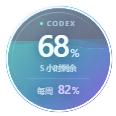
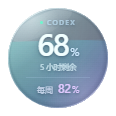
Refine the floating orb glass and remove exterior quota rings

diff --git a/renderer.js b/renderer.js
@@ -45,24 +45,49 @@ function draw(time){
   requestAnimationFrame(draw);
   if(document.body.dataset.mode!=='orb'||document.hidden)return;
   if(time-previous<1000/30)return;const dt=Math.min((time-previous)/1000,.06);previous=time;
-  const animate=current?.config.animation!==false;phase+=animate?dt*.8:0;level+=animate?(target-level)*.045:target-level;
-  const ratio=2,c=180,r=148;ctx.clearRect(0,0,360,360);ctx.save();ctx.beginPath();ctx.arc(c,c,r,0,Math.PI*2);ctx.clip();
+  const animate=current?.config.animation!==false;phase+=animate?dt*.55:0;level+=animate?(target-level)*Math.min(1,dt*3.5):target-level;
+  // Match the actual Windows pixel scale: no downsampled, subpixel progress orbit.
+  const size=104,dpr=window.devicePixelRatio||1,pixels=Math.round(size*dpr),c=size/2,r=50;
+  if(canvas.width!==pixels||canvas.height!==pixels){canvas.width=pixels;canvas.height=pixels;}
+  ctx.setTransform(pixels/size,0,0,pixels/size,0,0);ctx.clearRect(0,0,size,size);
+  ctx.save();ctx.beginPath();ctx.arc(c,c,r,0,Math.PI*2);ctx.clip();
   const alpha=(current?.config.opacity??78)/100;
-  let bg=ctx.createLinearGradient(30,20,310,330);bg.addColorStop(0,`rgba(26,55,78,${alpha*.77})`);bg.addColorStop(1,`rgba(25,20,56,${alpha*.84})`);ctx.fillStyle=bg;ctx.fillRect(0,0,360,360);
+  const bg=ctx.createLinearGradient(14,5,89,101);
+  bg.addColorStop(0,`rgba(80,125,145,${alpha*.7})`);
+  bg.addColorStop(.38,`rgba(29,55,73,${alpha*.82})`);
+  bg.addColorStop(1,`rgba(40,36,73,${alpha*.88})`);
+  ctx.fillStyle=bg;ctx.fillRect(0,0,size,size);
   const y=c+r-level*r*2;
-  for(let layer=0;layer<3;layer++){
-    ctx.beginPath();ctx.moveTo(0,360);
-    for(let x=0;x<=360;x+=3){const wave=Math.sin(x/64+phase*(layer===1?-1:1)+layer*1.8)*(7+layer*2)+Math.sin(x/39+phase*.65)*3;ctx.lineTo(x,y+wave+layer*5);}
-    ctx.lineTo(360,360);ctx.closePath();const g=ctx.createLinearGradient(25,y-30,320,350);g.addColorStop(0,`rgba(80,244,213,${alpha*(layer===2?.45:.17)})`);g.addColorStop(.48,`rgba(65,180,230,${alpha*.3})`);g.addColorStop(1,`rgba(157,91,250,${alpha*.52})`);ctx.fillStyle=g;ctx.fill();
-    if(layer===2){ctx.strokeStyle='#a9fff23c';ctx.lineWidth=1;ctx.stroke();}
+  for(let layer=0;level>.002&&layer<2;layer++){
+    ctx.beginPath();ctx.moveTo(0,size);
+    for(let x=0;x<=size;x++){
+      const wave=level>.998?0:Math.sin(x/23+phase*(layer?-1:1)+layer*1.9)*(1+layer*.4)+Math.sin(x/39+phase*.65)*.45;
+      ctx.lineTo(x,y+wave+layer*.8);
+    }
+    ctx.lineTo(size,size);ctx.closePath();
+    const water=ctx.createLinearGradient(7,Math.max(0,y-8),99,100);
+    water.addColorStop(0,`rgba(112,238,223,${alpha*(layer?.3:.15)})`);
+    water.addColorStop(.5,`rgba(82,184,218,${alpha*(layer?.29:.17)})`);
+    water.addColorStop(1,`rgba(156,132,239,${alpha*(layer?.39:.19)})`);
+    ctx.fillStyle=water;ctx.fill();
   }
-  const shine=ctx.createRadialGradient(116,66,3,130,85,220);shine.addColorStop(0,'#b9f9ff18');shine.addColorStop(1,'#70a9ff00');ctx.fillStyle=shine;ctx.fillRect(0,0,360,360);
-  if(animate)for(let i=0;i<8;i++){const x=80+(i*37)%210,by=310-((phase*13+i*41)%240);if(by>y+15){ctx.beginPath();ctx.arc(x,by,1.2+(i%3)*.6,0,7);ctx.fillStyle='#c7ffff38';ctx.fill();}}
+  // Broad reflections and an inset shadow give the material depth without particles.
+  const shade=ctx.createRadialGradient(47,43,30,c,c,r);
+  shade.addColorStop(0,'#14284200');shade.addColorStop(.78,'#14284200');shade.addColorStop(1,'#10263d35');
+  ctx.fillStyle=shade;ctx.fillRect(0,0,size,size);
+  const light=ctx.createRadialGradient(26,12,0,33,22,70);
+  light.addColorStop(0,'#edffff75');light.addColorStop(.35,'#e5ffff23');light.addColorStop(1,'#ecffff00');
+  ctx.fillStyle=light;ctx.fillRect(0,0,size,size);
+  const gloss=ctx.createLinearGradient(19,6,42,42);
+  gloss.addColorStop(0,'#ffffff38');gloss.addColorStop(1,'#ffffff00');
+  ctx.beginPath();ctx.ellipse(36,19,33,10,-.45,0,Math.PI*2);ctx.fillStyle=gloss;ctx.fill();
+  const refract=ctx.createRadialGradient(76,90,0,72,86,35);
+  refract.addColorStop(0,'#e0deff38');refract.addColorStop(1,'#d1dbff00');
+  ctx.fillStyle=refract;ctx.fillRect(0,0,size,size);
   ctx.restore();
-  const ring=ctx.createLinearGradient(30,30,320,320);ring.addColorStop(0,'#91ffe6');ring.addColorStop(.5,'#70bcf4');ring.addColorStop(1,'#b18aff');
-  ctx.beginPath();ctx.arc(c,c,r+6,-Math.PI/2,Math.PI*1.5);ctx.strokeStyle='#a8c8ff10';ctx.lineWidth=2;ctx.stroke();
-  const weekly=current?.usage?.secondary?.remaining;
-  if(weekly!==undefined){ctx.beginPath();ctx.arc(c,c,r+6,-Math.PI/2,-Math.PI/2+Math.PI*2*weekly/100);ctx.strokeStyle=ring;ctx.lineWidth=2;ctx.lineCap='round';ctx.stroke();}
-  ctx.beginPath();ctx.arc(c,c,r-1,Math.PI*1.05,Math.PI*1.67);ctx.strokeStyle='#b5f4ff44';ctx.lineWidth=1.5;ctx.stroke();
+  // One continuous optical edge, entirely inside the sphere. Weekly stays in text.
+  const edge=ctx.createLinearGradient(13,8,91,97);
+  edge.addColorStop(0,'#f5ffffd9');edge.addColorStop(.34,'#dcf7ff55');edge.addColorStop(.65,'#c8deff24');edge.addColorStop(1,'#e8e5ff99');
+  ctx.beginPath();ctx.arc(c,c,r-.45,0,Math.PI*2);ctx.strokeStyle=edge;ctx.lineWidth=1.1;ctx.stroke();
 }
 requestAnimationFrame(draw);

diff --git a/style.css b/style.css
@@ -3,9 +3,9 @@
 .settings-card{position:absolute;inset:12px;padding:24px;border-radius:24px;overflow:hidden}.settings-card header{margin-bottom:22px}.settings-card header strong{font-size:17px;font-weight:600}.settings-card header button{margin-left:auto;color:#9cb0ca;font-size:20px;width:28px;height:28px}.section-label{font-size:9px;color:#7793ad;letter-spacing:1.8px;margin:20px 0 10px}.segmented{display:flex;background:#040f252f;border:1px solid #b2d6ff1b;border-radius:12px;padding:4px;gap:4px}.segmented button{flex:1;padding:10px;color:#8ea5be;font-size:12px}.segmented button.selected{color:#d3fff7;background:linear-gradient(120deg,#56dfc823,#9c80ff2b);box-shadow:inset 0 0 0 1px #a1e7ff26;border-radius:8px}.setting-row{display:flex;align-items:center;justify-content:space-between;margin:18px 0;color:#c3d1e5;font-size:12px}.setting-row small{display:block;font-size:9px;color:#7d93ac;margin-top:5px}.setting-row select{background:#131e36;border:1px solid #bfdfff26;color:#b9f4ec;border-radius:8px;padding:6px 8px;font-size:11px}.setting-row input[type=checkbox]{appearance:none;width:32px;height:18px;border-radius:12px;background:#9db6d72b;position:relative;cursor:pointer;transition:background .2s}.setting-row input[type=checkbox]:before{content:'';position:absolute;top:3px;left:3px;width:12px;height:12px;border-radius:50%;background:#a2afc3;transition:transform .2s}.setting-row input:checked{background:#5ee8cb55}.setting-row input:checked:before{transform:translateX(14px);background:#abfff0}.range-row{margin-top:14px}.range-row label{display:flex;justify-content:space-between;color:#b0c6de;font-size:11px}.range-row output{color:#a0f3e5}.range-row input{width:100%;accent-color:#91e8dd;height:3px;margin:15px 0 2px}.settings-note{border-top:1px solid #a7bcf315;padding-top:15px;margin-top:20px;font-size:10px;color:#8398b1;line-height:1.7}.settings-state{font-size:10px;color:#91d5c6;line-height:1.6;overflow-wrap:anywhere;margin-top:10px;max-height:60px;overflow:auto}.settings-state.error{color:#edc593}.settings-foot{display:flex;justify-content:space-between;margin-top:18px;color:#667d9c;font-size:9px;align-items:center}.settings-foot button{color:#c2a8ce;padding:5px 8px;font-size:10px}
 /* Compact orb: both limits live inside the glass circle. */
 .orb-mode{width:116px;height:116px;padding-top:6px}
-.sphere{width:104px;height:104px;box-shadow:inset 0 0 22px #a4c3ff12,0 0 0 3px #85a9ff06}
-.sphere canvas{inset:-10px;width:124px;height:124px}
-.orb-copy{justify-content:flex-start;padding-top:12px}
+.sphere{width:104px;height:104px;background:transparent;border:0;box-shadow:none;isolation:isolate}
+.sphere canvas{inset:0;width:104px;height:104px}
+.orb-copy{justify-content:flex-start;padding-top:12px;text-shadow:0 1px 3px #17304a80,0 2px 10px #17304a40}
 .orb-brand{display:flex;align-items:center;gap:4px;font-size:6.5px;line-height:9px;letter-spacing:1.6px;margin:0 0 1px;font-weight:600}
 .orb-brand .dot{width:3px;height:3px}
 .orb-number{font-size:31px;line-height:1.05;letter-spacing:-1.8px;font-weight:560}

diff --git a/index.html b/index.html
@@ -2,9 +2,8 @@
 <body data-mode="orb">
 <main id="orb" class="orb-mode">
   <div id="sphere" class="sphere">
-    <canvas id="water" width="360" height="360"></canvas>
+    <canvas id="water" width="104" height="104" aria-hidden="true"></canvas>
     <div class="orb-copy"><div class="orb-brand"><i id="orbDot" class="dot loading"></i>CODEX</div><div id="orbPrimary" class="orb-number">--<small>%</small></div><div class="orb-label" data-i18n="primaryLabel">5h remaining</div><div class="orb-week"><span id="orbWeeklyLabel" data-i18n="secondaryLabel">Weekly</span><strong id="orbSecondary">--<small>%</small></strong></div></div>
-    <span class="specular"></span>
   </div>
 </main>
 <main id="panel" class="panel-mode glass">

diff --git a/README.md b/README.md
@@ -22,7 +22,8 @@ Keep your remaining percentages, usage indicators and reset countdowns beside yo
 
 - **Two display modes:** a clean 104px water orb with no button strip, or a panel anchored to the bottom-right of your display's work area.
 - **Release to snap:** the orb glides to the nearest left or right edge after dragging, preserves its height and remembers the docked position.
-- **Readable usage:** water level shows the 5-hour remainder; the outer ring and lower number show the weekly remainder.
+- **Readable usage:** water level shows the 5-hour remainder; the lower number shows the weekly remainder inside the glass.
+- **Clean glass material:** soft reflections, a continuous inset edge and restrained cyan/violet waves. No external progress ring or floating particles; rendering follows Windows display scaling.
 - **Automatic updates:** refresh every 15 seconds by default, choose 10 / 15 / 30 / 60 seconds, or refresh manually.
 - **Transparent gradients:** cyan-to-violet glass, adjustable opacity and optional flowing waves.
 - **Chinese and English:** follows your Windows preferred display language, with a manual override.

diff --git a/README.zh-CN.md b/README.zh-CN.md
@@ -22,7 +22,8 @@
 
 - **两种显示方式**：没有按钮条的 104px 纯净水波悬浮球 / 固定在屏幕工作区右下角的面板，随时切换。
 - **松手自动靠边**：拖动后平滑吸附到当前屏幕最近的左侧或右侧，保留高度，并记住吸附位置。
-- **用量直观可见**：球内水位表示 5 小时剩余，外环及圆内下方数字表示每周剩余。
+- **用量直观可见**：球内水位表示 5 小时剩余，圆内下方数字表示每周剩余。
+- **干净玻璃质感**：柔和反光、连续内缘与克制的青紫水波；移除外侧进度环和气泡，按 Windows 实际像素缩放绘制。
 - **持续自动更新**：默认每 15 秒刷新，可选 10 / 15 / 30 / 60 秒，也可以立即刷新。
 - **透明渐变与动画**：青蓝紫玻璃效果，可调整不透明度、关闭流动水波。
 - **自动中英文**：跟随 Windows 首选显示语言，也可手动选择中文或 English。

diff --git a/CHANGELOG.md b/CHANGELOG.md
@@ -1,5 +1,17 @@
 # Changelog / 更新记录
 
+## 1.4.0
+
+- Replace the outer weekly progress orbit and bubble particles with a clean glass sphere.
+- Add broad highlights, soft edge shading and a single continuous inset optical edge.
+- Render at the actual Windows pixel scale to avoid resampling artifacts; keep weekly quota inside the sphere.
+- Keep the standalone widget as the main experience; the native plugin trial is discontinued.
+
+- 移除球外每周进度弧与气泡粒子，改为干净通透的玻璃球。
+- 使用柔和高光、内缘阴影和连续玻璃边缘，减少杂点和生硬描边。
+- 按 Windows 实际像素缩放绘制，减少缩放毛边；每周额度继续显示在球内。
+- 回到独立悬浮球方案，停止原生插件试验。
+
 ## 1.3.0
 
 - Remove the orb's entire hover toolbar; use right-click and the tray for commands.
